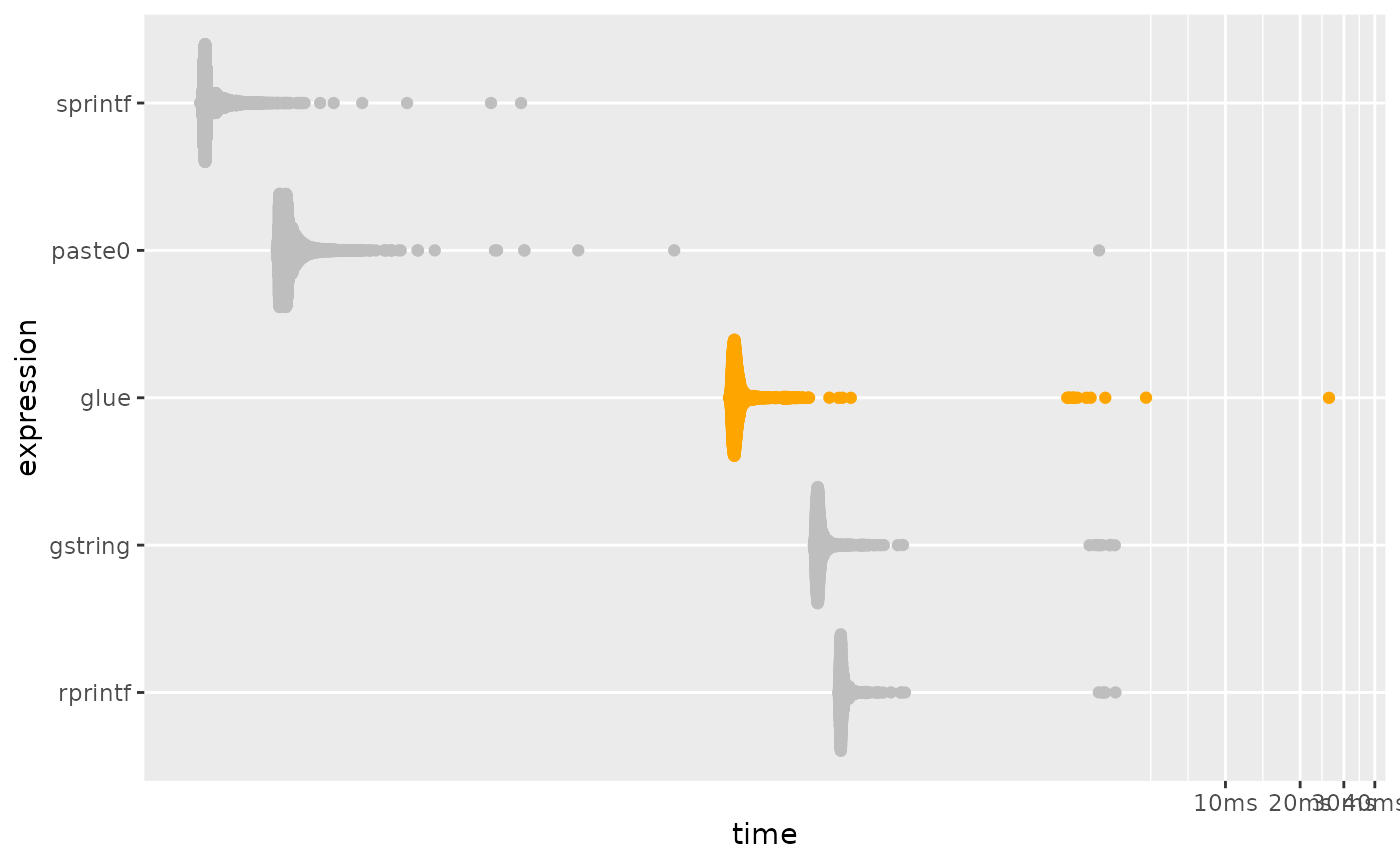
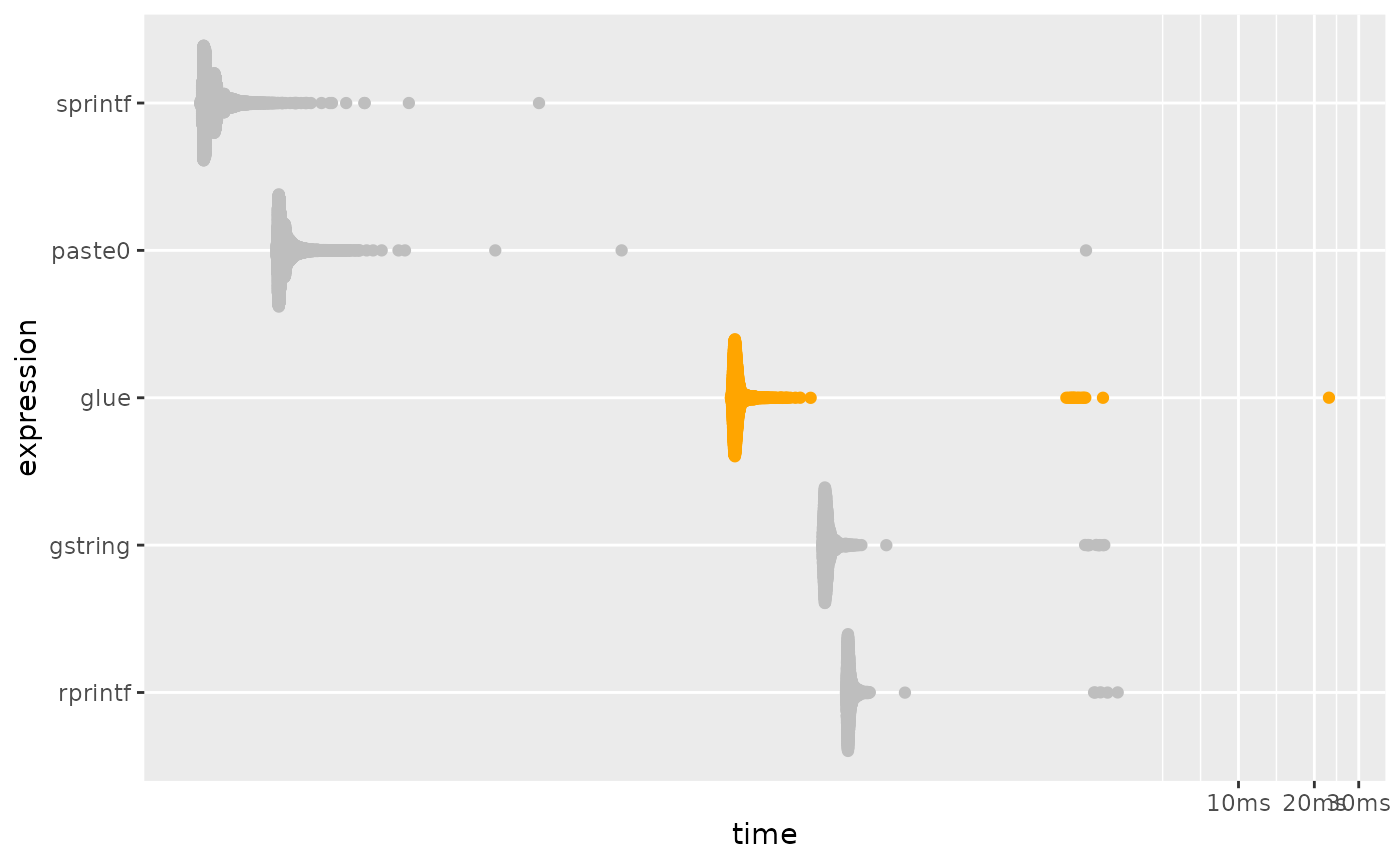
Deploying to gh-pages from @ tidyverse/glue@603c7ad71f270132ef7b5aef2065ab14fcea5331 🚀

diff --git a/dev/articles/speed.html b/dev/articles/speed.html
@@ -166,11 +166,11 @@ this benchmark, but is now formally marked as “superseded”, in favor of
 <span><span class="co">#&gt; <span style="color: #949494;"># A tibble: 5 × 6</span></span></span>
 <span><span class="co">#&gt;   expression      min   median `itr/sec` mem_alloc `gc/sec`</span></span>
 <span><span class="co">#&gt;   <span style="color: #949494; font-style: italic;">&lt;bch:expr&gt;</span> <span style="color: #949494; font-style: italic;">&lt;bch:tm&gt;</span> <span style="color: #949494; font-style: italic;">&lt;bch:tm&gt;</span>     <span style="color: #949494; font-style: italic;">&lt;dbl&gt;</span> <span style="color: #949494; font-style: italic;">&lt;bch:byt&gt;</span>    <span style="color: #949494; font-style: italic;">&lt;dbl&gt;</span></span></span>
-<span><span class="co">#&gt; <span style="color: #BCBCBC;">1</span> sprintf       741ns 782.08ns  1<span style="text-decoration: underline;">195</span>997.        0B      0  </span></span>
-<span><span class="co">#&gt; <span style="color: #BCBCBC;">2</span> paste0        1.5µs   1.64µs   <span style="text-decoration: underline;">580</span>325.        0B     58.0</span></span>
-<span><span class="co">#&gt; <span style="color: #BCBCBC;">3</span> glue         99.7µs 105.97µs     <span style="text-decoration: underline;">9</span>125.  140.53KB     31.9</span></span>
-<span><span class="co">#&gt; <span style="color: #BCBCBC;">4</span> gstring     219.1µs 229.05µs     <span style="text-decoration: underline;">4</span>265.    2.45MB     19.1</span></span>
-<span><span class="co">#&gt; <span style="color: #BCBCBC;">5</span> rprintf     275.8µs  283.5µs     <span style="text-decoration: underline;">3</span>469.   78.14KB     10.3</span></span>
+<span><span class="co">#&gt; <span style="color: #BCBCBC;">1</span> sprintf    761.01ns    851ns  1<span style="text-decoration: underline;">147</span>209.        0B      0  </span></span>
+<span><span class="co">#&gt; <span style="color: #BCBCBC;">2</span> paste0       1.52µs   1.62µs   <span style="text-decoration: underline;">598</span>721.        0B     59.9</span></span>
+<span><span class="co">#&gt; <span style="color: #BCBCBC;">3</span> glue        96.71µs 101.12µs     <span style="text-decoration: underline;">9</span>714.  139.66KB     33.7</span></span>
+<span><span class="co">#&gt; <span style="color: #BCBCBC;">4</span> gstring    222.86µs 231.26µs     <span style="text-decoration: underline;">4</span>258.    2.45MB     18.9</span></span>
+<span><span class="co">#&gt; <span style="color: #BCBCBC;">5</span> rprintf    276.81µs 284.04µs     <span style="text-decoration: underline;">3</span>477.   78.14KB     10.3</span></span>
 <span></span>
 <span><span class="co"># plotting function defined in a hidden chunk</span></span>
 <span><span class="fu">plot_comparison</span><span class="op">(</span><span class="va">simple</span><span class="op">)</span></span></code></pre></div>
@@ -213,11 +213,11 @@ performance is much closer to that of <code><a href="https://rdrr.io/r/base/past
 <span><span class="co">#&gt; <span style="color: #949494;"># A tibble: 5 × 6</span></span></span>
 <span><span class="co">#&gt;   expression      min   median `itr/sec` mem_alloc `gc/sec`</span></span>
 <span><span class="co">#&gt;   <span style="color: #949494; font-style: italic;">&lt;bch:expr&gt;</span> <span style="color: #949494; font-style: italic;">&lt;bch:tm&gt;</span> <span style="color: #949494; font-style: italic;">&lt;bch:tm&gt;</span>     <span style="color: #949494; font-style: italic;">&lt;dbl&gt;</span> <span style="color: #949494; font-style: italic;">&lt;bch:byt&gt;</span>    <span style="color: #949494; font-style: italic;">&lt;dbl&gt;</span></span></span>
-<span><span class="co">#&gt; <span style="color: #BCBCBC;">1</span> paste0        8.4ms   8.42ms     117.    781.3KB     4.17</span></span>
-<span><span class="co">#&gt; <span style="color: #BCBCBC;">2</span> sprintf      9.54ms   9.93ms      99.0   781.3KB     4.21</span></span>
-<span><span class="co">#&gt; <span style="color: #BCBCBC;">3</span> gstring     11.26ms  11.34ms      88.0    1.53MB     6.44</span></span>
-<span><span class="co">#&gt; <span style="color: #BCBCBC;">4</span> glue        11.99ms  12.34ms      80.6    2.29MB     6.53</span></span>
-<span><span class="co">#&gt; <span style="color: #BCBCBC;">5</span> rprintf     27.54ms  27.76ms      36.0    3.05MB     4.49</span></span>
+<span><span class="co">#&gt; <span style="color: #BCBCBC;">1</span> paste0       8.34ms   8.37ms     117.    781.3KB     4.18</span></span>
+<span><span class="co">#&gt; <span style="color: #BCBCBC;">2</span> sprintf      9.72ms  10.12ms      98.7   781.3KB     4.20</span></span>
+<span><span class="co">#&gt; <span style="color: #BCBCBC;">3</span> gstring     11.21ms  11.27ms      88.4    1.53MB     6.47</span></span>
+<span><span class="co">#&gt; <span style="color: #BCBCBC;">4</span> glue         12.7ms  13.19ms      76.3    2.29MB     6.54</span></span>
+<span><span class="co">#&gt; <span style="color: #BCBCBC;">5</span> rprintf     28.94ms  29.28ms      33.5    3.05MB     4.46</span></span>
 <span></span>
 <span><span class="co"># plotting function defined in a hidden chunk</span></span>
 <span><span class="fu">plot_comparison</span><span class="op">(</span><span class="va">vectorized</span><span class="op">)</span></span></code></pre></div>
